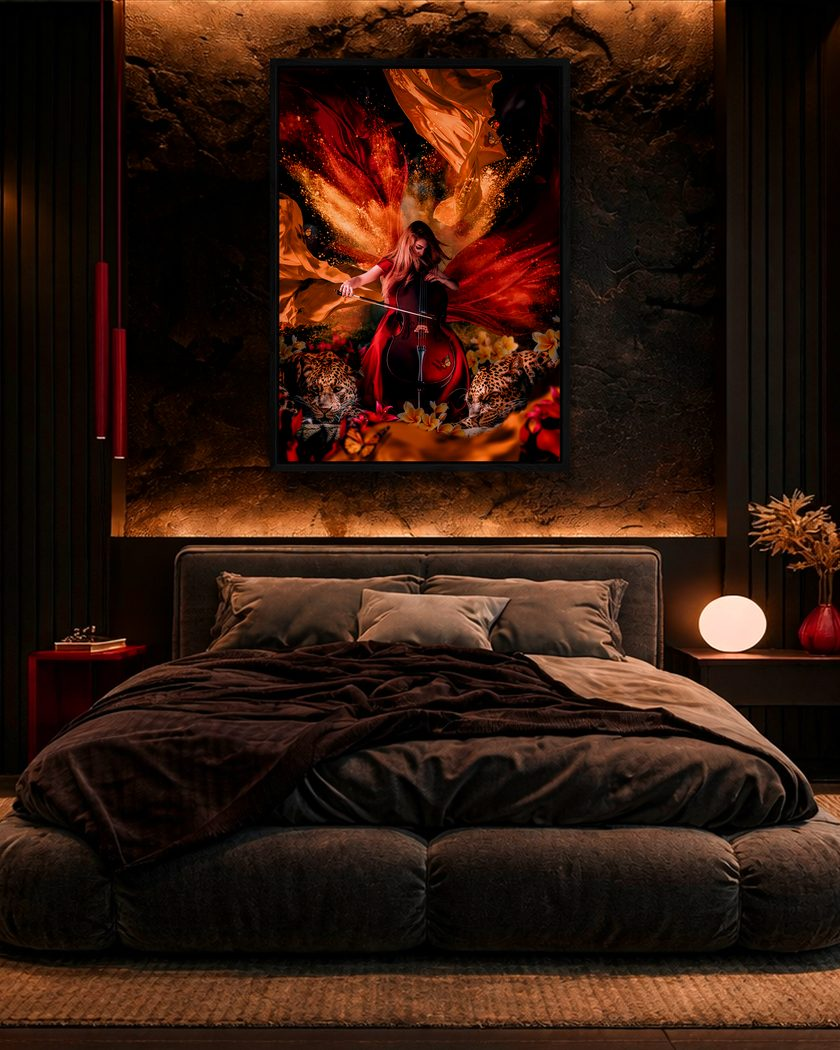
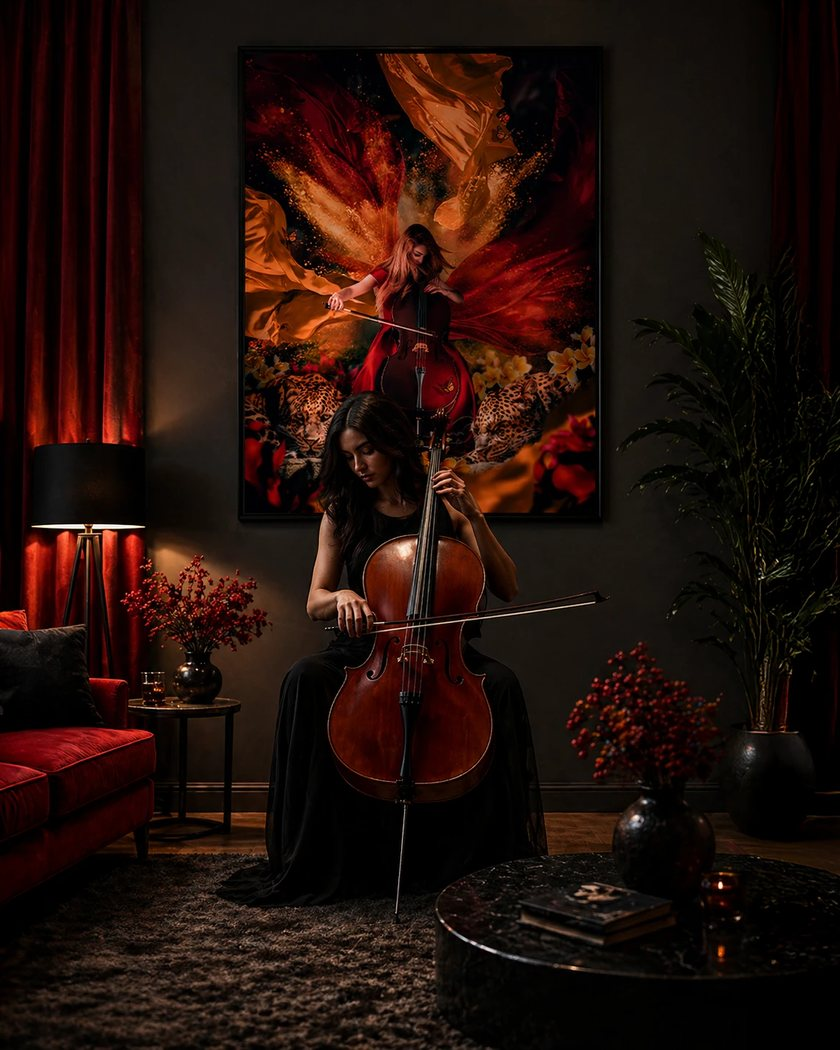
Interior mockups as cover images for 16 works; fix Swipe row alignment on wide screens

diff --git a/index.html b/index.html
@@ -320,7 +320,7 @@ body::after{content:"";position:fixed;inset:0;pointer-events:none;z-index:90;opa
 .btn:hover .ar,.btn:focus-visible .ar,.cta:focus-visible .arr{transform:translateX(3px)}
 .btn .ar{transition:transform .4s var(--ease)}
 .sec-foot{margin-top:clamp(18px,2.5vw,28px);display:flex;flex-wrap:wrap;gap:20px;align-items:center;justify-content:space-between}
-.sec-foot-top{margin:0 0 clamp(18px,2.5vw,28px)}
+.sec-foot-top{margin-top:0;margin-bottom:clamp(18px,2.5vw,28px)}
 .hint{font-family:var(--text);font-size:15px;letter-spacing:.2em;text-transform:uppercase;color:var(--muted)}
 .hint.swipe{display:inline-flex;align-items:center;gap:14px}
 .hint.swipe .ar{display:block;width:1.6em;height:.8em;background:var(--amber);-webkit-mask:var(--arrow) center/contain no-repeat;mask:var(--arrow) center/contain no-repeat;animation:nudge 1.6s ease-in-out infinite}
